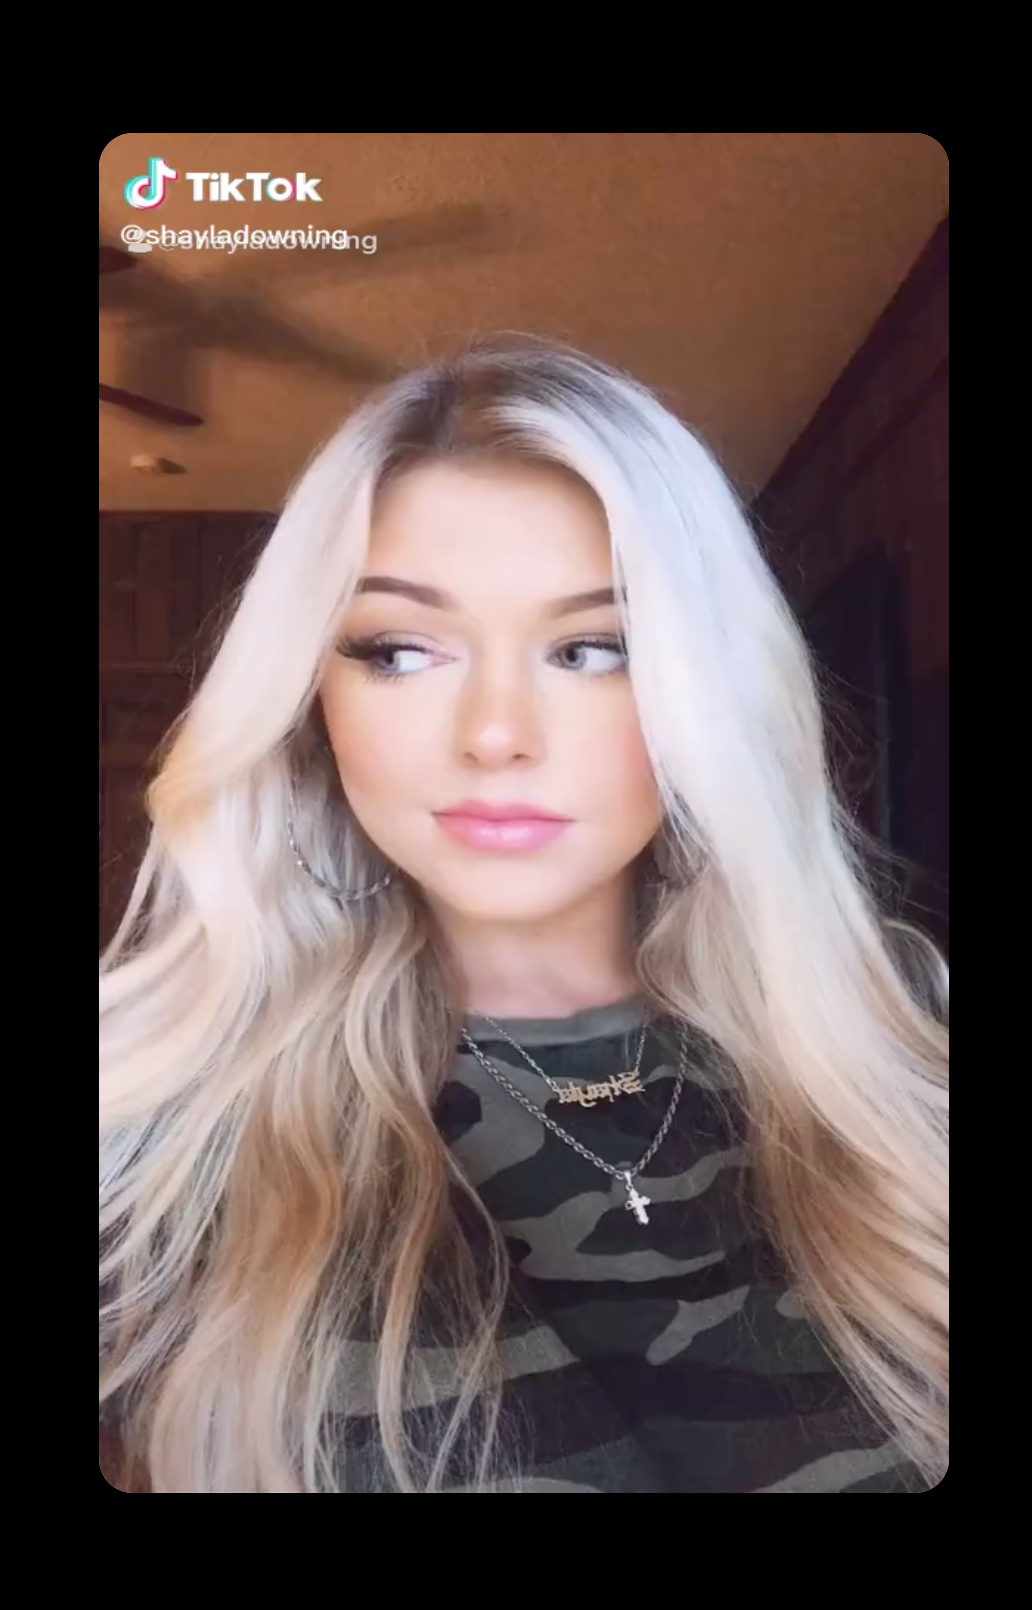
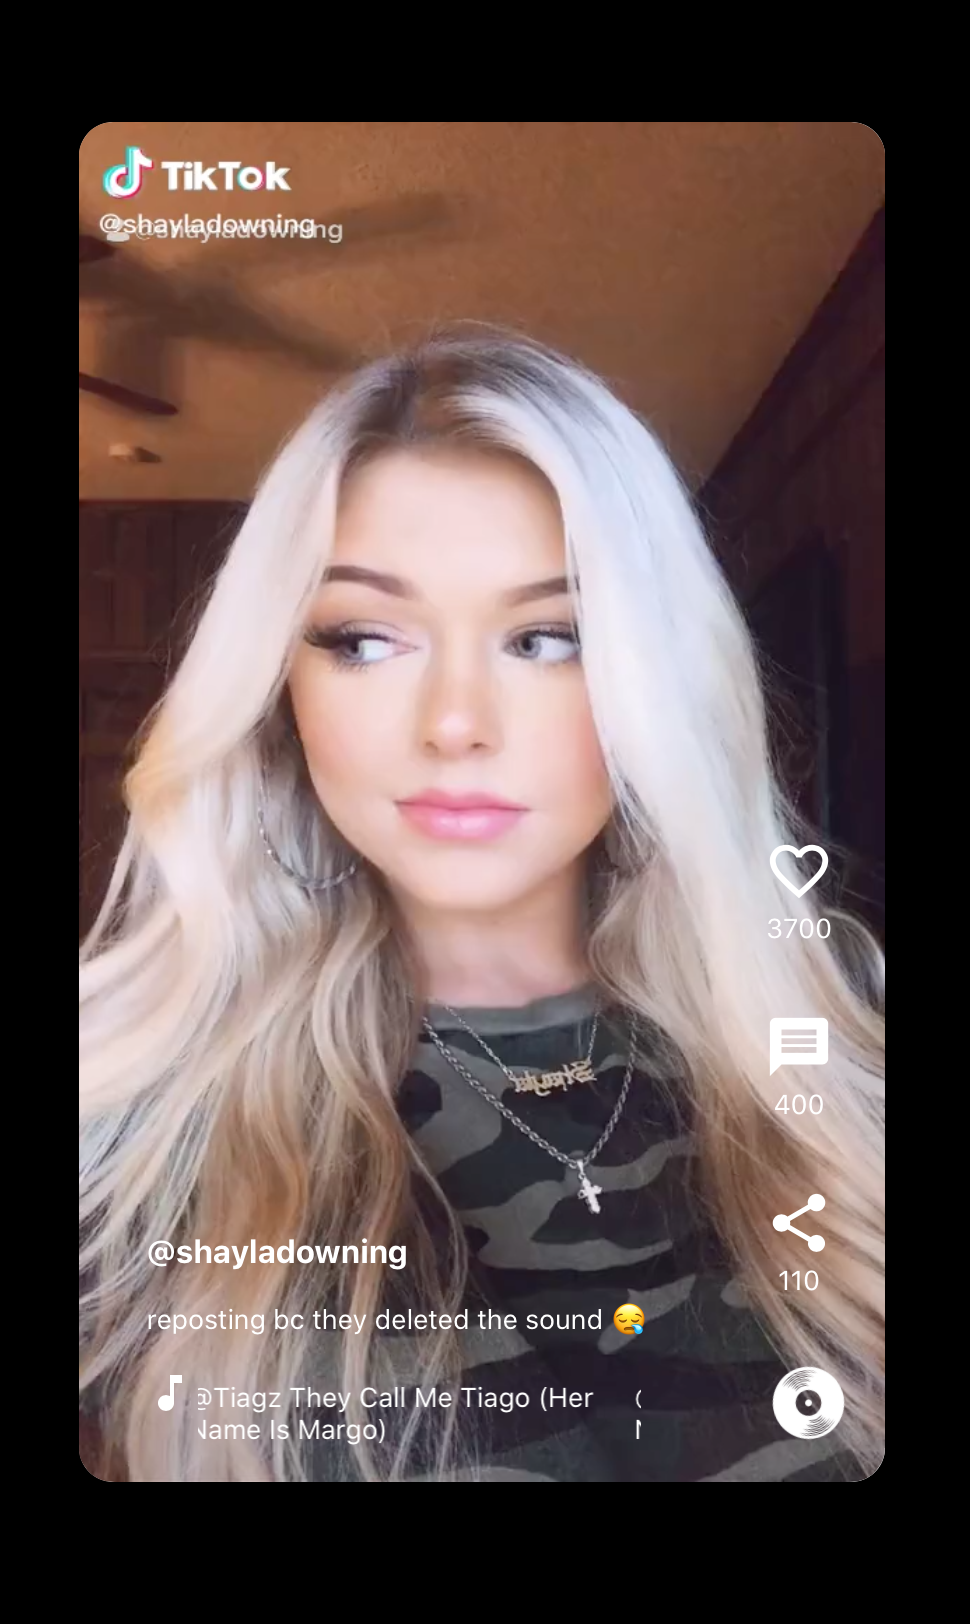
Sidebar-added

Changed region(s): [[0.0619, 0.0621, 0.9278, 0.9317]]

diff --git a/tiktok-clone-react/src/App.js b/tiktok-clone-react/src/App.js
@@ -6,14 +6,36 @@ function App() {
   const video1 = require('./assets/01.MP4');
   const video2 = require('./assets/02.MP4');
   const video3 = require('./assets/03.MP4');
-  const video4 = require('./assets/04.MP4');
   return (
     <div className='app'>
       <div className='app__videos'>
-        <Video vid={video1} />
-        <Video vid={video2} />
-        <Video vid={video3} />
-        <Video vid={video4} />
+        <Video
+          vid={video1}
+          channel='shayladowning'
+          desc='reposting bc they deleted the sound 😪'
+          song='@Tiagz They Call Me Tiago (Her Name Is Margo)'
+          likes={3700}
+          share={110}
+          messages={400}
+        />
+        <Video
+          vid={video2}
+          channel='lailooooarazi_'
+          desc='Oops 🥴'
+          song='@Megan Thee Stallion Cash Shit'
+          likes={2800}
+          share={210}
+          messages={276}
+        />
+        <Video
+          vid={video3}
+          channel='nadeyah'
+          desc='Rrrah 👑'
+          song='@lauren original sound - stargirlaur'
+          likes={1200}
+          share={43}
+          messages={309}
+        />
       </div>
     </div>
   );

diff --git a/tiktok-clone-react/src/components/VideoSideBar/VideoSideBar.js b/tiktok-clone-react/src/components/VideoSideBar/VideoSideBar.js
@@ -1,10 +1,28 @@
-import React from 'react';
+import React, { useState } from 'react';
 import './VideoSideBar.css';
+import { Share, Message, Favorite, FavoriteBorder } from '@material-ui/icons';
 
-function VideoSideBar() {
+function VideoSideBar({ likes, share, messages }) {
+  const [liked, setLiked] = useState(false);
+
   return (
     <div className='videoSideBar'>
-      <h4>sidebar</h4>
+      <div className='videoSideBar__button'>
+        {liked ? (
+          <Favorite fontSize='large' onClick={(e) => setLiked(false)} />
+        ) : (
+          <FavoriteBorder fontSize='large' onClick={(e) => setLiked(true)} />
+        )}
+        <p>{liked ? likes + 1 : likes}</p>
+      </div>
+      <div className='videoSideBar__button'>
+        <Message fontSize='large' />
+        <p>{messages}</p>
+      </div>
+      <div className='videoSideBar__button'>
+        <Share fontSize='large' />
+        <p>{share}</p>
+      </div>
     </div>
   );
 }

diff --git a/tiktok-clone-react/src/components/VideoFooter/VideoFooter.js b/tiktok-clone-react/src/components/VideoFooter/VideoFooter.js
@@ -1,10 +1,30 @@
 import React from 'react';
 import './VideoFooter.css';
+import Ticker from 'react-ticker';
+import { MusicNote } from '@material-ui/icons';
 
-function VideoFooter() {
+function VideoFooter({ channel, description, song }) {
   return (
     <div className='videoFooter'>
-      <h3>Footer</h3>
+      <div className='videoFooter__text'>
+        <h3>@{channel}</h3>
+        <p>{description}</p>
+        <div className='videoFooter__ticker'>
+          <MusicNote className='videoFooter__icon' />
+          <Ticker mode='smooth'>
+            {({ index }) => (
+              <>
+                <p>{song}</p>
+              </>
+            )}
+          </Ticker>
+        </div>
+      </div>
+      <img
+        className='videoFooter__record'
+        src='https://static.thenounproject.com/png/934821-200.png'
+        alt='record'
+      />
     </div>
   );
 }

diff --git a/tiktok-clone-react/src/components/Video/Video.js b/tiktok-clone-react/src/components/Video/Video.js
@@ -3,9 +3,10 @@ import './Video.css';
 import VideoSideBar from '../VideoSideBar/VideoSideBar';
 import VideoFooter from '../VideoFooter/VideoFooter';
 
-function Video({ vid }) {
+function Video({ vid, channel, desc, song, likes, share, messages }) {
   const [playing, setPlaying] = useState(false);
   const videoRef = useRef(null);
+
   const onVideoPress = () => {
     if (playing) {
       videoRef.current.pause();
@@ -15,6 +16,7 @@ function Video({ vid }) {
       setPlaying(true);
     }
   };
+
   return (
     <div className='video'>
       <video
@@ -24,8 +26,8 @@ function Video({ vid }) {
         loop
         src={vid}
       ></video>
-      <VideoSideBar />
-      <VideoFooter />
+      <VideoFooter channel={channel} description={desc} song={song} />
+      <VideoSideBar likes={likes} share={share} messages={messages} />
     </div>
   );
 }

diff --git a/tiktok-clone-react/src/components/VideoFooter/VideoFooter.css b/tiktok-clone-react/src/components/VideoFooter/VideoFooter.css
@@ -1,0 +1,51 @@
+.videoFooter {
+  position: relative;
+  bottom: 150px;
+  color: white;
+  margin-left: 40px;
+  display: flex;
+}
+
+@keyframes spinTheRecord {
+  from {
+    transform: rotate(0deg);
+  }
+  to {
+    transform: rotate(360deg);
+  }
+}
+
+.videoFooter__record {
+  animation: spinTheRecord infinite 5s linear;
+  height: 50px;
+  filter: invert(1);
+  position: absolute;
+  bottom: 0;
+  right: 20px;
+}
+
+.videoFooter__text {
+  flex: 1;
+}
+
+.videoFooter__text > h3 {
+  padding-bottom: 20px;
+}
+
+.videoFooter__ticker > .ticker {
+  height: fit-content;
+  margin-left: 30px;
+  width: 60%;
+}
+
+.videoFooter__icon {
+  position: absolute;
+}
+
+.videoFooter__ticker p {
+  padding-top: 7px;
+}
+
+.videoFooter__text > p {
+  padding-bottom: 20px;
+}

diff --git a/tiktok-clone-react/src/components/VideoSideBar/VideoSideBar.css b/tiktok-clone-react/src/components/VideoSideBar/VideoSideBar.css
@@ -1,0 +1,11 @@
+.videoSideBar {
+  position: absolute;
+  top: 50%;
+  right: 10px;
+  color: white;
+}
+
+.videoSideBar__button {
+  padding: 20px;
+  text-align: center;
+}

diff --git a/tiktok-clone-react/src/components/Video/Video.css b/tiktok-clone-react/src/components/Video/Video.css
@@ -8,7 +8,7 @@
 }
 
 .video__player {
-  background-color: rgb(230, 109, 109);
+  background-color: rgb(0, 0, 0);
   width: 100%;
   height: 100%;
   object-fit: fill;
